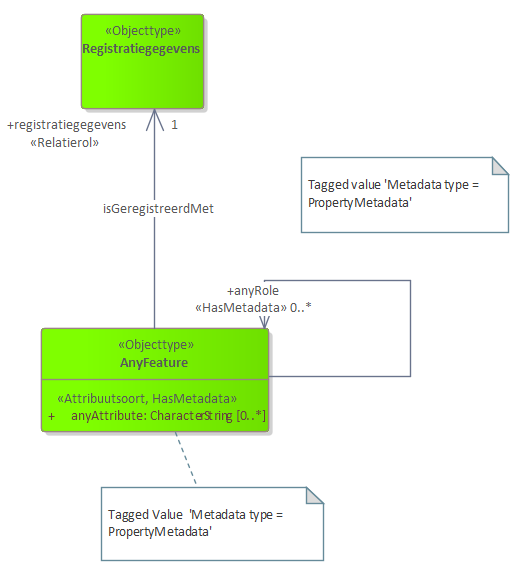
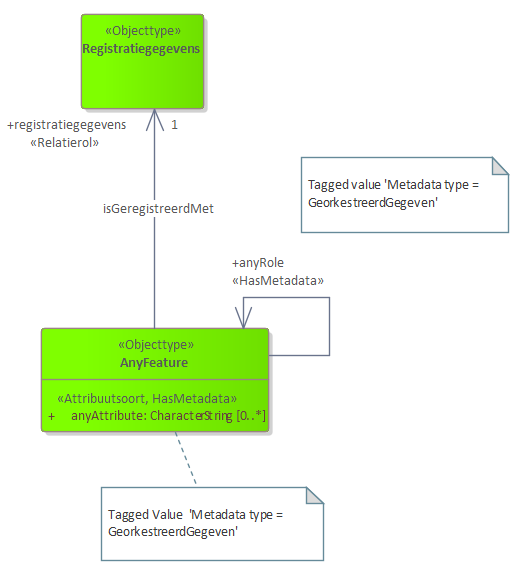
update

Changed region(s): [[0.3657, 0.4435, 0.7924, 0.68], [0.579, 0.3252, 0.8229, 0.3843], [0.1829, 0.9165, 0.4571, 0.9461]]

diff --git a/Metadata_extensie.md b/Metadata_extensie.md
@@ -52,7 +52,7 @@ Tagged Value: Metadata type
 Description:
 This tagged value specifies the relation to a specific target class of or in a specific metadata model. This target class serves as the receptor defining the type of metadata that is associated.
 
-In figure 2 the value for `Metadata type = PropertyMetadata` is only an example and may differ according to the required metadata class that relates to the specified metadata.
+In figure 2 the value for `Metadata type = GeorkestreerdGegeven` is only an example and may differ according to the required metadata class that relates to the specified metadata.
 
 
 # MIM-UML extension
